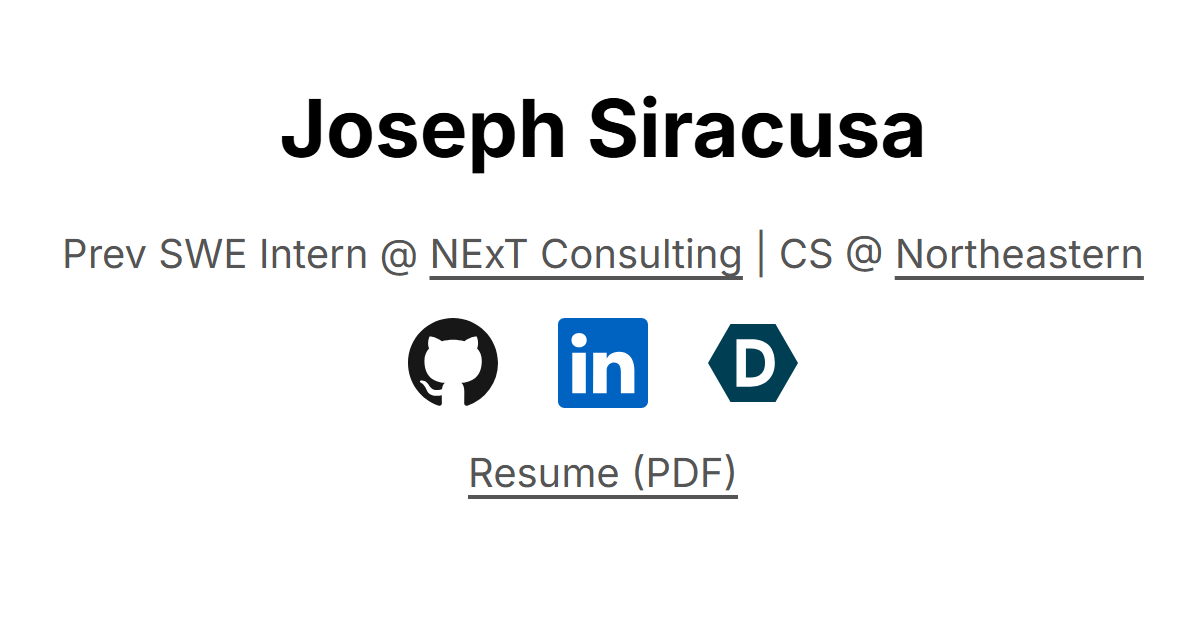
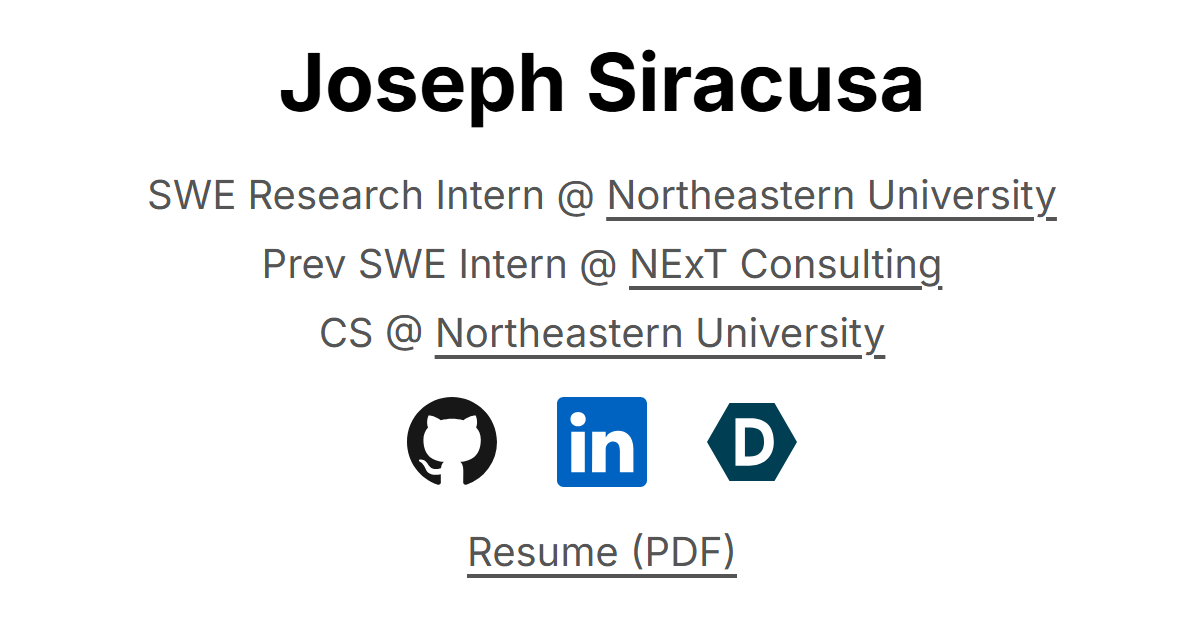
Update og-image w/ new headline and fix structured data JSON

Changed region(s): [[0.0308, 0.0603, 0.9558, 0.8143], [0.37, 0.8444, 0.6167, 0.9349]]

diff --git a/index.html b/index.html
@@ -31,16 +31,22 @@
     <script type="application/ld+json">
         {
             "@context": "https://schema.org",
-            "@type": "Person",
-            "name": "Joseph Siracusa",
-            "url": "https://joeyqsa.dev",
-            "sameAs": [
+            "@type": "ProfilePage",
+            "mainEntity": {
+              "@type": "Person",
+              "name": "Joseph Siracusa",
+              "url": "https://joeyqsa.dev",
+              "image": "https://joeyqsa.dev/assets/images/og-image.png",
+              "jobTitle": "Software Engineering Research Intern",
+              "sameAs": [
                 "https://github.com/Joeweh",
-                "https://linkedin.com/in/joseph-siracusa"
-            ],
-            "affiliation": {
+                "https://linkedin.com/in/joseph-siracusa",
+                "https://devpost.com/Joeweh"
+              ],
+              "affiliation": {
                 "@type": "CollegeOrUniversity",
                 "name": "Northeastern University"
+              }
             }
         }
     </script>
